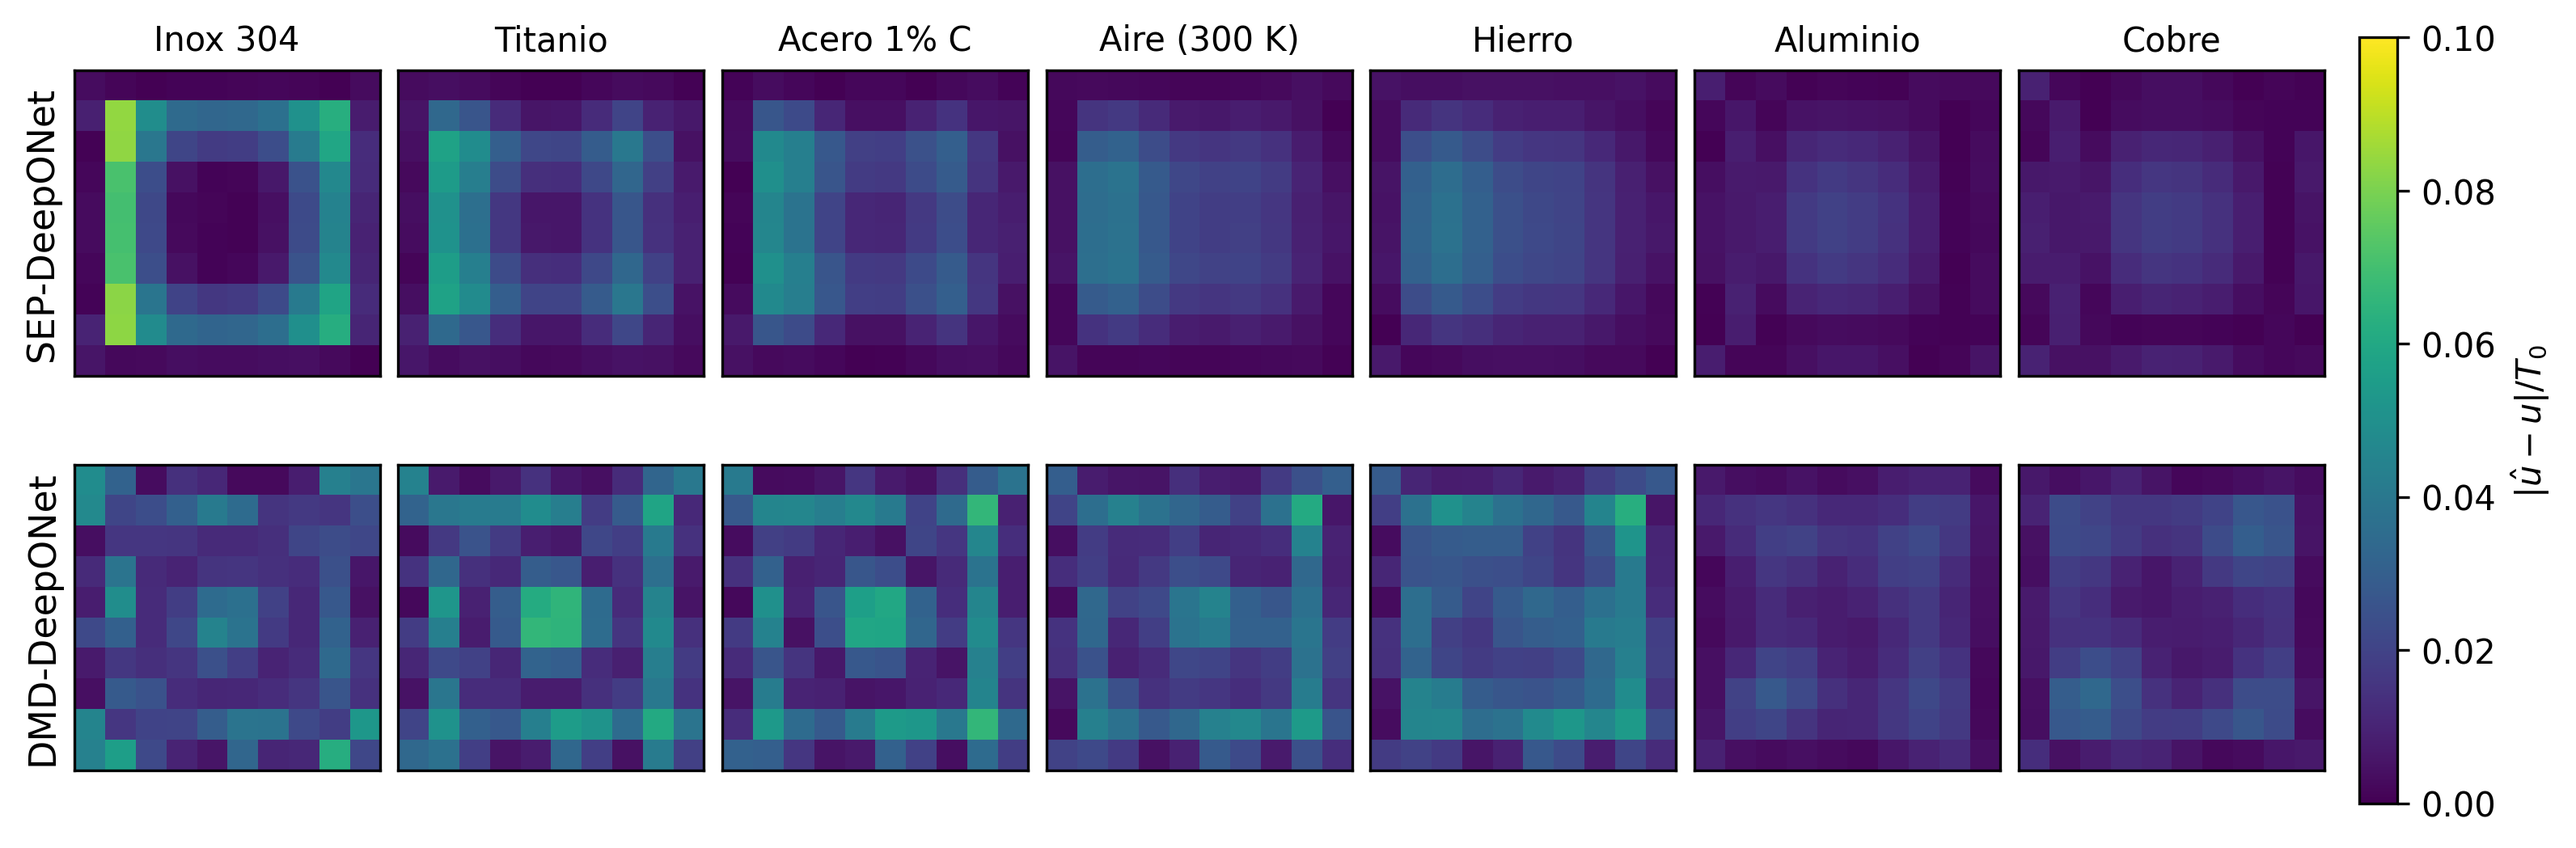
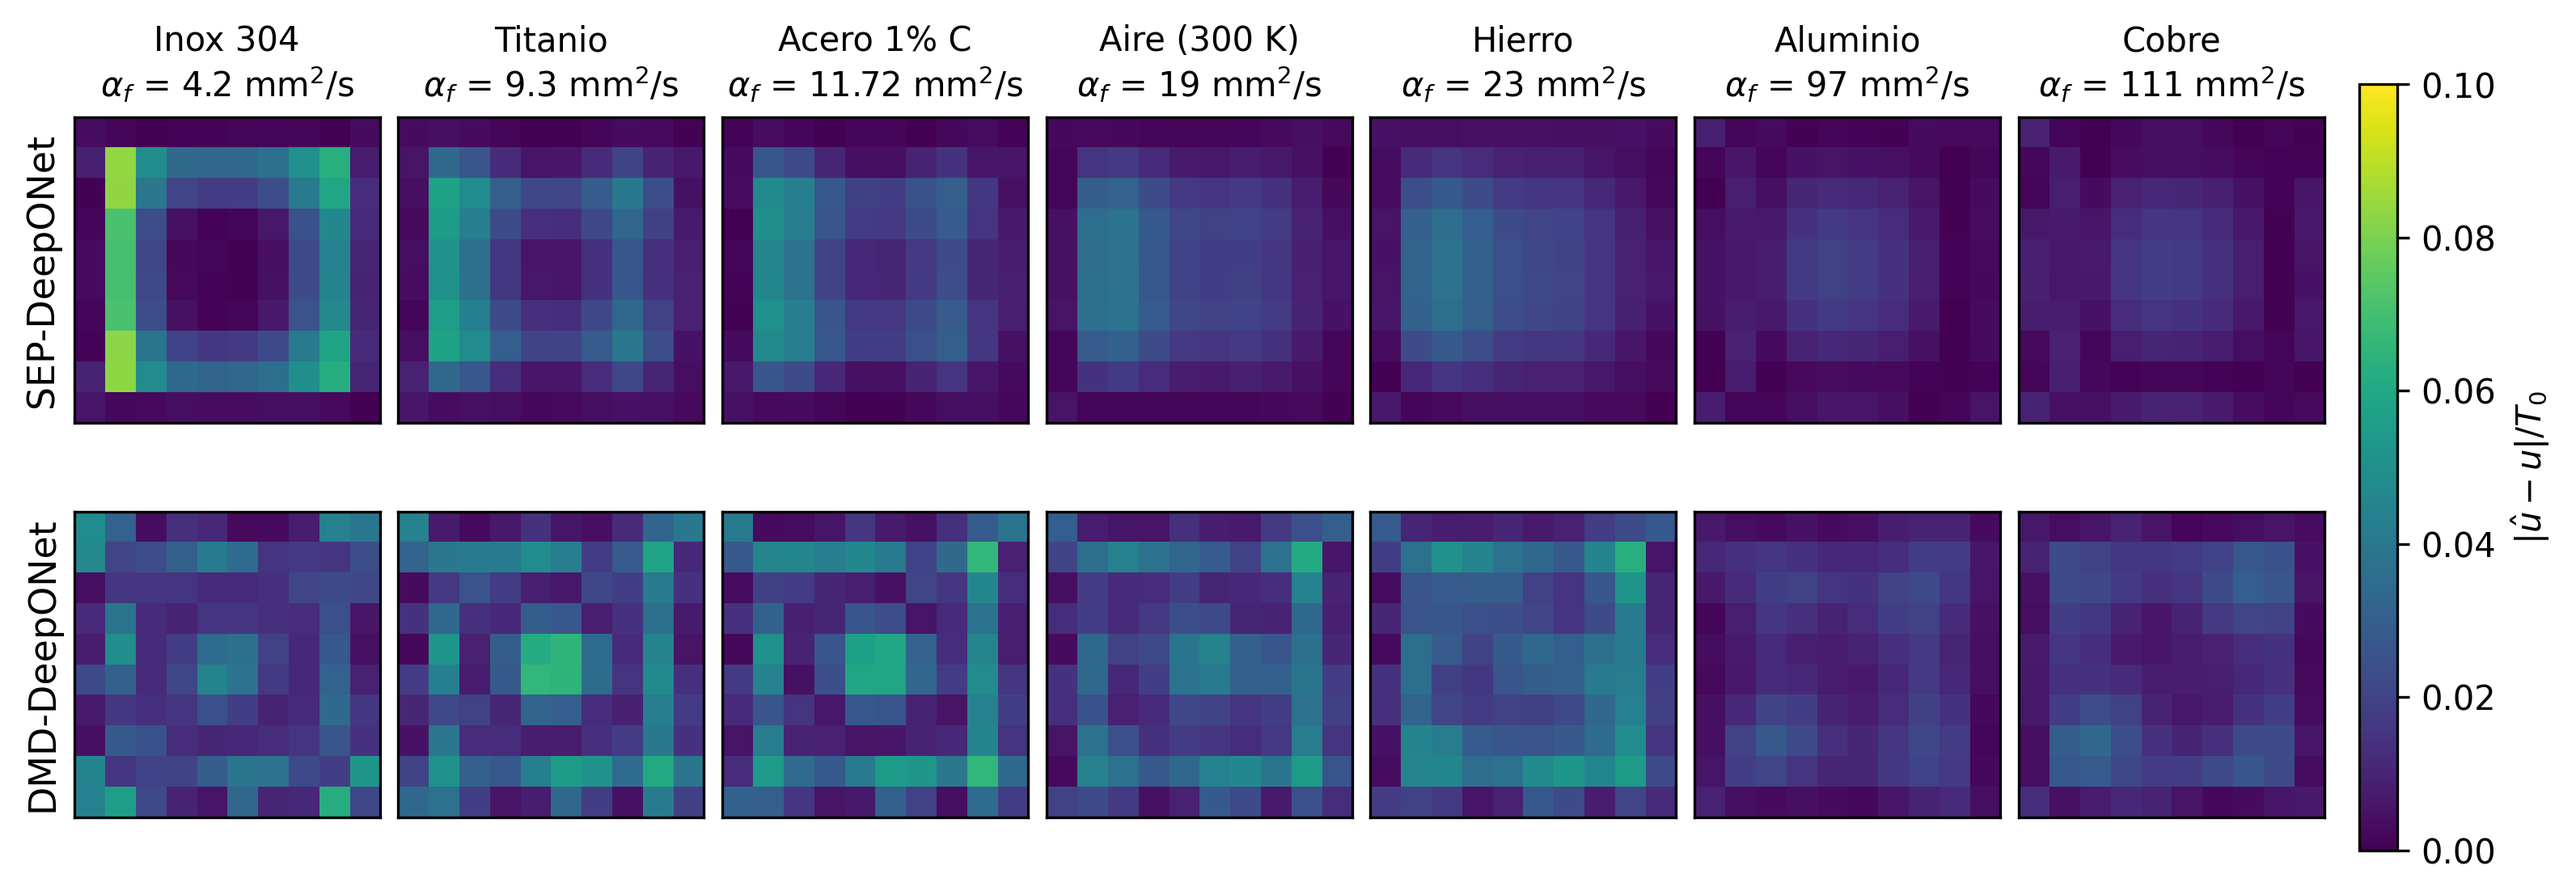
fix(visualizer): add alpha to plots

diff --git a/comparison/visualize.py b/comparison/visualize.py
@@ -101,7 +101,9 @@ if __name__ == "__main__":
 
 
     # figures
-    col_labels = order
+    col_labels = []
+    for name in order:
+        col_labels.append(f"{name}\n" + rf"$\alpha_f$ = {MATERIALS_alpha[name]:g} mm$^2$/s")
 
     maps = Grid(3, len(order), ["Ground truth", "SEP-DeepONet", "DMD-DeepONet"], col_labels, r"$u/T_0$")
     errors = Grid(2, len(order), ["SEP-DeepONet", "DMD-DeepONet"], col_labels, r"$|\hat{u} - u|/T_0$")
